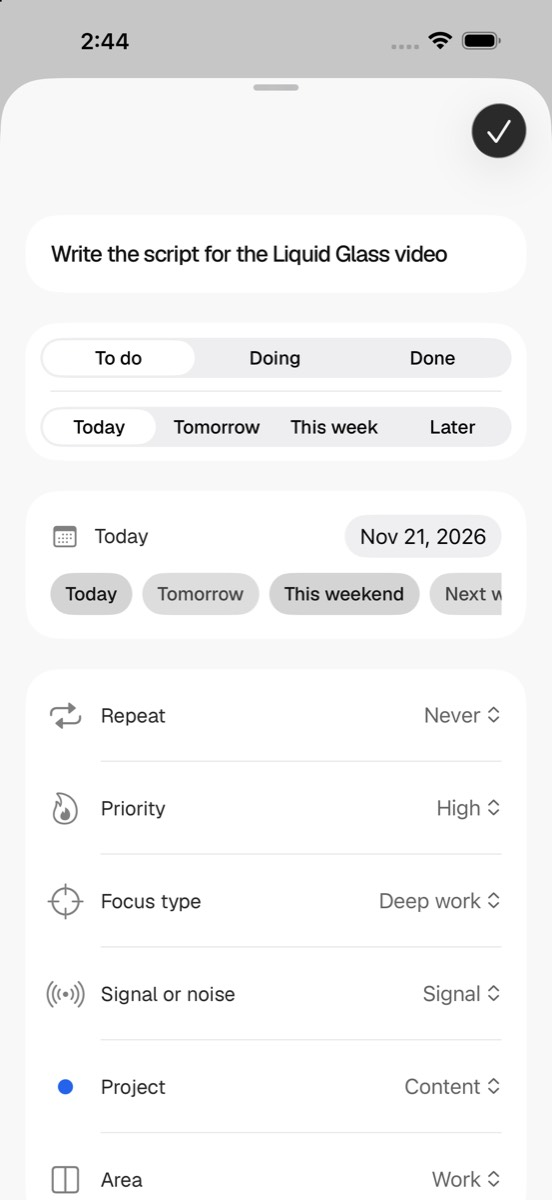
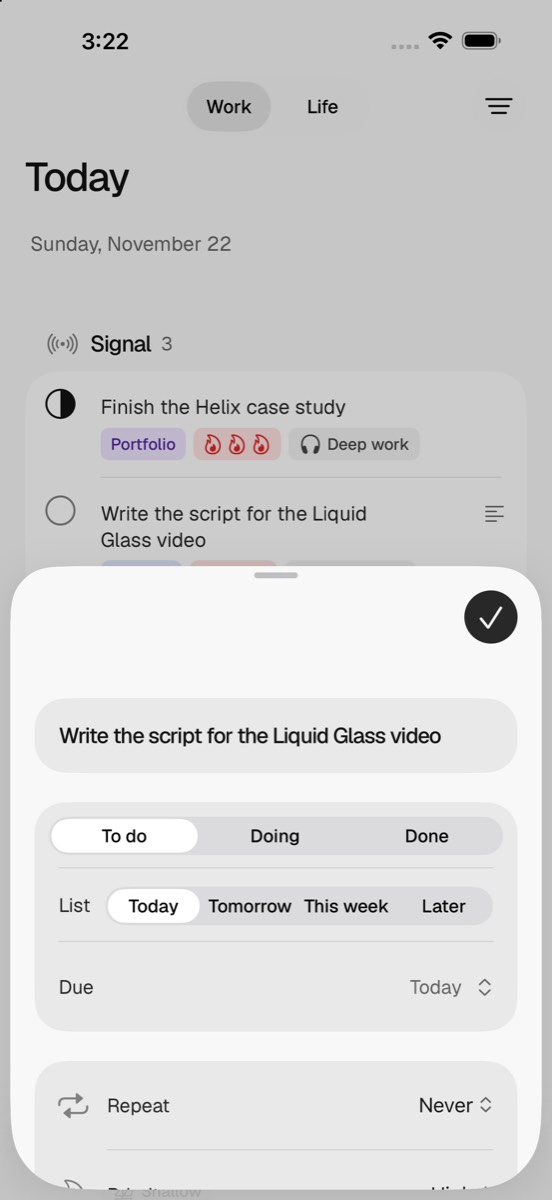
iPhone app: task editor (audit item 7)
Opens at half height with the name, status, List and Due showing. List is
labelled; Due is one row with a menu (Today, Tomorrow, This weekend, Next
week, Pick a date…, No date) that opens the calendar inline. The sideways
row of date chips is gone.

diff --git a/ios/LukeOS/Features/Tasks/TaskEditor.swift b/ios/LukeOS/Features/Tasks/TaskEditor.swift
@@ -9,7 +9,7 @@ struct TaskEditor: View {
     @State private var loaded: LukeTask?
     @State private var title = ""
     @State private var notes = ""
-    @State private var showDate = false
+    @State private var pickingDate = false
     @State private var confirmDelete = false
     @State private var notesTask: Task<Void, Never>?
 
@@ -39,9 +39,19 @@ struct TaskEditor: View {
                 // The two things changed most, as switches; everything else as menus in one compact list.
                 Section {
                     segmented(TaskStatus.allCases, task.status, \.label) { set(["status": .string($0.rawValue)]) }
-                    segmented(Bucket.allCases, task.bucket, \.label) { set(["bucket": .string($0.rawValue)]) }
+                    labeled("List") {
+                        segmented(Bucket.allCases, task.bucket, \.label) { set(["bucket": .string($0.rawValue)]) }
+                    }
+                    dueRow
+                    if pickingDate {
+                        DatePicker("", selection: Binding(
+                            get: { Day.toLocal(task.dueDate ?? today) },
+                            set: { set(["dueDate": .string(Day.fromLocal($0))]); withAnimation(.snappy) { pickingDate = false } }
+                        ), displayedComponents: .date)
+                        .datePickerStyle(.graphical)
+                        .tint(.ink)
+                    }
                 }
-                Section { dueControls }
                 Section {
                     menuRow("Repeat", "repeat", Binding(get: { task.repeat ?? "" }, set: { set(["repeat": $0.isEmpty ? .null : .string($0)]) })) {
                         Text("Never").tag("")
@@ -113,7 +123,7 @@ struct TaskEditor: View {
                 }
             }
         }
-        .presentationDetents([.large])
+        .presentationDetents([.medium, .large])
         .presentationDragIndicator(.visible)
         .onAppear {
             title = task.title
@@ -162,44 +172,44 @@ struct TaskEditor: View {
         .listRowInsets(EdgeInsets(top: Space.m, leading: Space.m, bottom: Space.m, trailing: Space.m))
     }
 
-    private var dueControls: some View {
-        VStack(alignment: .leading, spacing: Space.m) {
-            HStack(spacing: Space.m) {
-                Image(systemName: "calendar").font(.icon(.row)).foregroundStyle(Color.icon)
-                if let due = task.dueDate {
-                    Text(Day.friendly(due, today: today)).textStyle(.control, medium: due < today, color: due < today ? .ink : .text)
-                } else {
-                    Text("No date").textStyle(.control, color: .mutedText)
-                }
-                Spacer()
-                DatePicker("", selection: Binding(
-                    get: { Day.toLocal(task.dueDate ?? today) },
-                    set: { set(["dueDate": .string(Day.fromLocal($0))]) }
-                ), displayedComponents: .date)
-                .labelsHidden()
-            }
-            ScrollView(.horizontal) {
-                HStack(spacing: Space.s) {
-                    quick("Today", today)
-                    quick("Tomorrow", Day.add(today, days: 1))
-                    quick("This weekend", Day.endOfWeek(today) == today ? today : Day.add(Day.endOfWeek(today), days: -1))
-                    quick("Next week", Day.add(Day.endOfWeek(today), days: 1))
-                    Button("No date") { set(["dueDate": .null]) }
-                        .buttonStyle(.bordered)
-                        .disabled(task.dueDate == nil)
-                }
-                .font(.geist(.preview, medium: true))
-            }
-            .scrollIndicators(.hidden)
+    /// A label beside a control, for rows that need naming ("List").
+    private func labeled<C: View>(_ title: String, @ViewBuilder _ content: () -> C) -> some View {
+        HStack(spacing: Space.m) {
+            Text(title).textStyle(.control, color: .text).fixedSize()
+            content()
         }
-        .padding(.vertical, Space.xs)
     }
 
-    private func quick(_ label: String, _ day: String) -> some View {
-        Button(label) { set(["dueDate": .string(day)]) }
-            .buttonStyle(.bordered)
-            .tint(task.dueDate == day ? .ink : .subtleText)
+    /// "Due": the date on the right; tap for Today, Tomorrow, This weekend, Next week, a calendar or no date.
+    private var dueRow: some View {
+        Menu {
+            Button("Today") { set(["dueDate": .string(today)]) }
+            Button("Tomorrow") { set(["dueDate": .string(Day.add(today, days: 1))]) }
+            Button("This weekend") { set(["dueDate": .string(Day.endOfWeek(today) == today ? today : Day.add(Day.endOfWeek(today), days: -1))]) }
+            Button("Next week") { set(["dueDate": .string(Day.add(Day.endOfWeek(today), days: 1))]) }
+            Divider()
+            Button("Pick a date…", systemImage: "calendar") { withAnimation(.snappy) { pickingDate = true } }
+            if task.dueDate != nil {
+                Button("No date", systemImage: "xmark", role: .destructive) { set(["dueDate": .null]) }
+            }
+        } label: {
+            HStack(spacing: Space.m) {
+                Text("Due").textStyle(.control, color: .text)
+                Spacer()
+                if let due = task.dueDate {
+                    Text(Day.friendly(due, today: today))
+                        .textStyle(.control, medium: due < today, color: due < today ? .ink : .mutedText)
+                } else {
+                    Text("None").textStyle(.control, color: .mutedText)
+                }
+                Image(systemName: "chevron.up.chevron.down").font(.icon(.meta)).foregroundStyle(Color.mutedText)
+            }
+            .frame(minHeight: Size.tap)
+            .contentShape(.rect)
+        }
+        .buttonStyle(.plain)
     }
+
 
     // MARK: Saving
 
